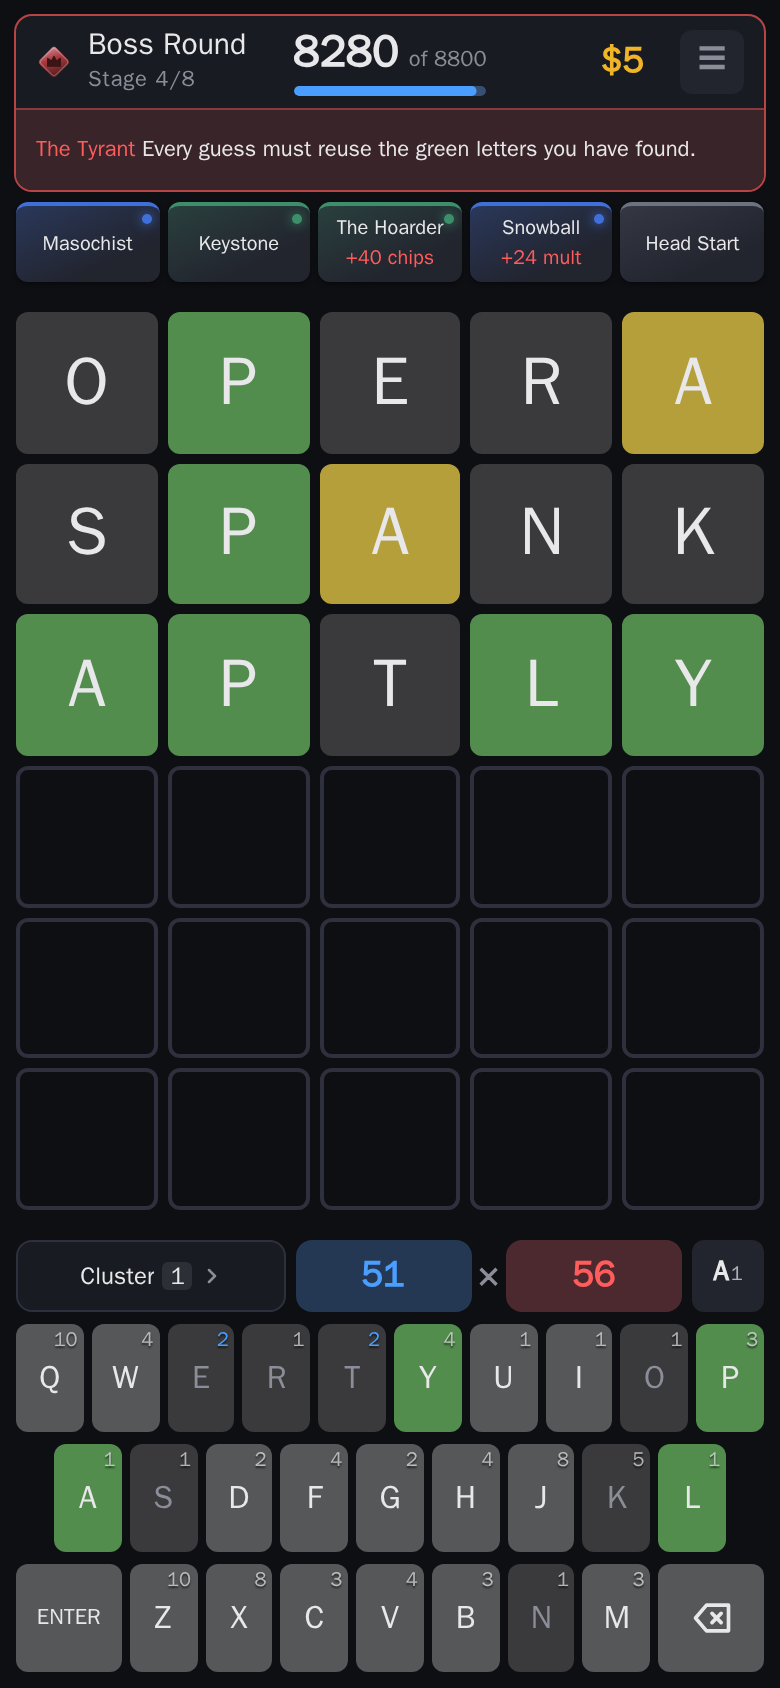
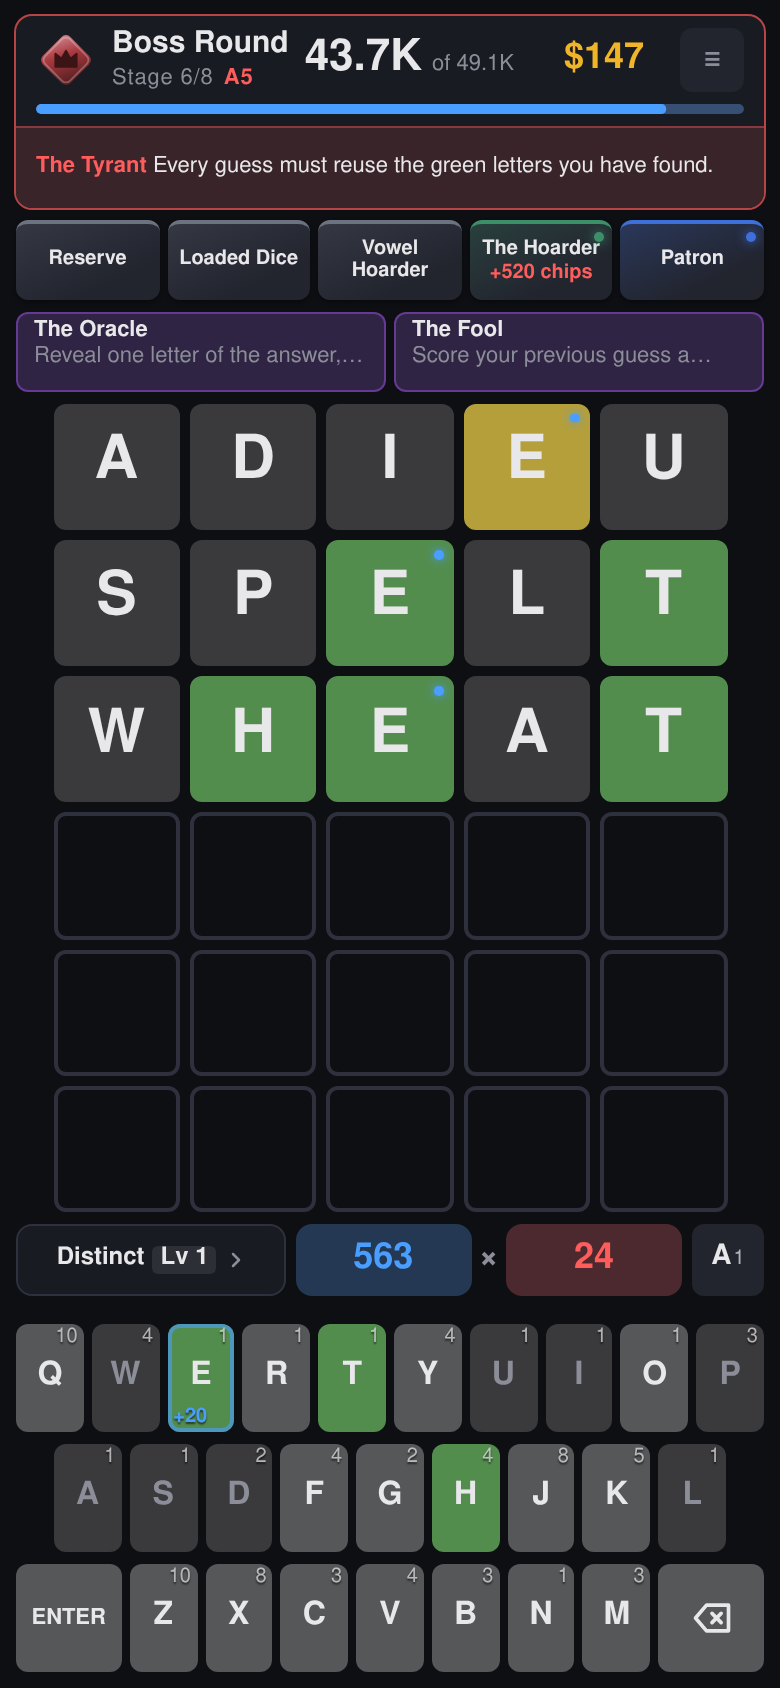
update screenshot

diff --git a/5-wild/README.md b/5-wild/README.md
@@ -8,7 +8,7 @@
 </p>
 
 <p align="center">
-  <img src="assets/screenshot.png" alt="A boss round of 5 Wild in progress: The Tyrant demanding every guess reuse the greens found, five relics along the top, and a score of 8,280 against an 8,800 target" width="380">
+  <img src="assets/screenshot.png" alt="A boss round of 5 Wild in progress on ascension 5: The Tyrant demanding every guess reuse the greens found, five relics and two consumables along the top, and a score of 43.7K against a 49.1K target" width="380">
 </p>
 
 ---
